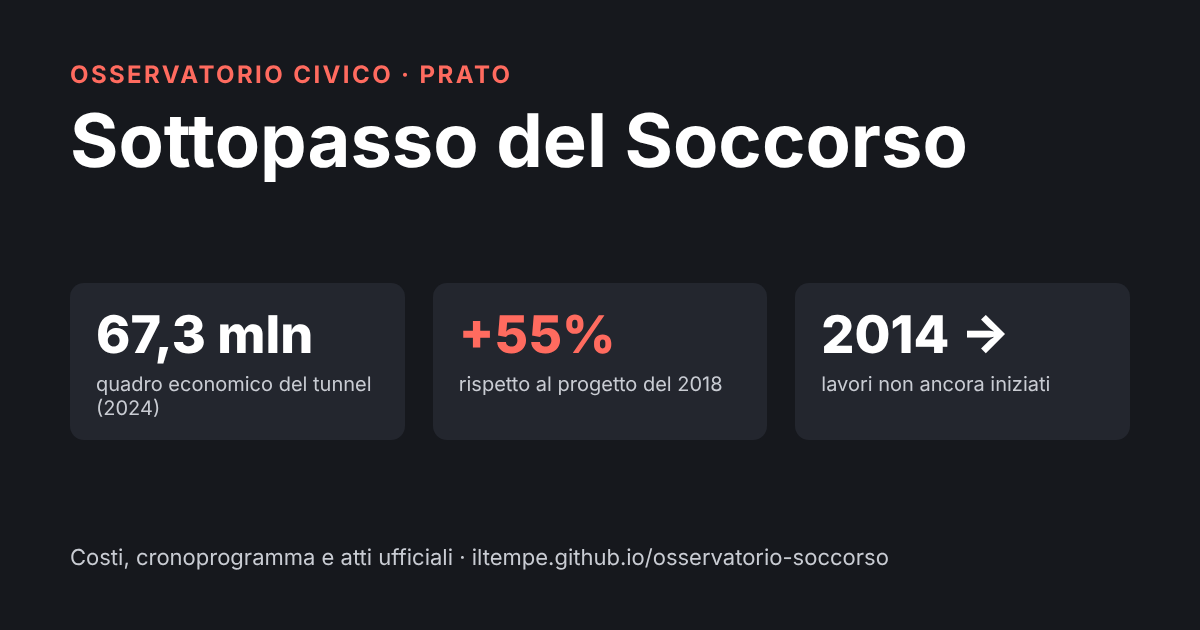
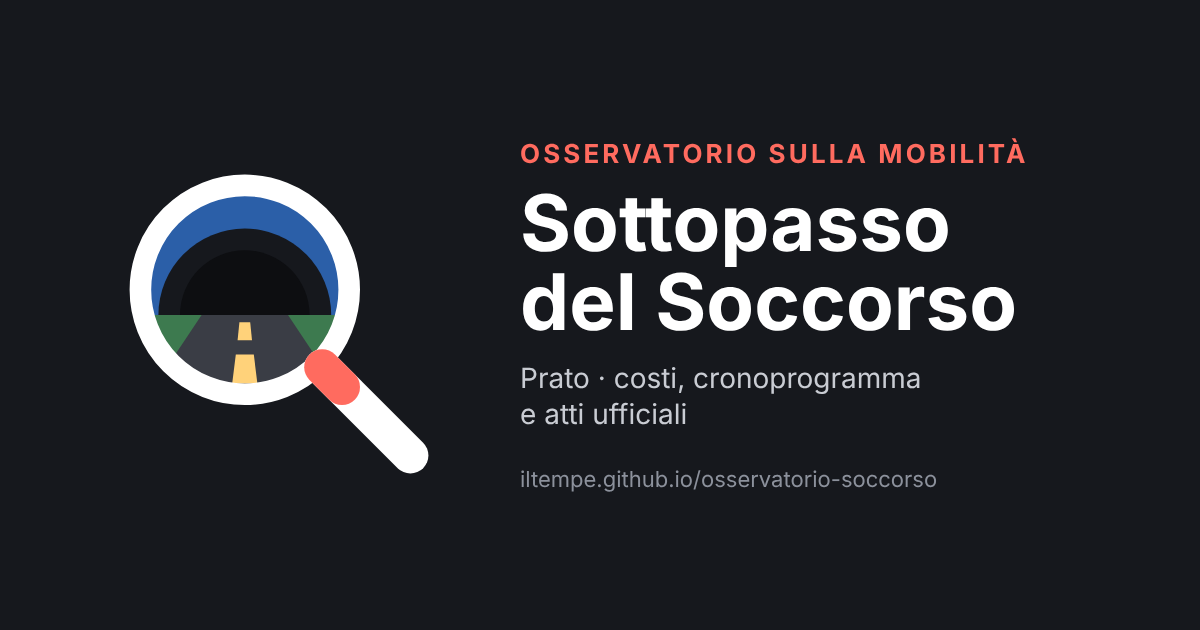
Nuova anteprima social con icona dell'osservatorio sulla mobilità
Claude-Session: https://claude.ai/code/session_0143r5fSB8zhKMoqbwVNnyAB

diff --git a/sorgente/social.html b/sorgente/social.html
@@ -1,18 +1,28 @@
 <!DOCTYPE html><html><head><meta charset="utf-8"><style>
-body{margin:0;width:1200px;height:630px;background:#16181d;color:#fff;font-family:system-ui,-apple-system,"Segoe UI",Roboto,Arial,sans-serif;display:flex;flex-direction:column;justify-content:space-between;padding:60px 70px;box-sizing:border-box}
-.k{color:#ff6b5f;font-weight:700;letter-spacing:.1em;text-transform:uppercase;font-size:24px}
-h1{font-size:74px;line-height:1.02;margin:14px 0 0}
-.row{display:flex;gap:28px}
-.n{background:#23262e;border-radius:14px;padding:20px 26px;flex:1}
-.v{font-size:52px;font-weight:800}.v.r{color:#ff6b5f}
-.l{font-size:20px;color:#c9ccd3;margin-top:6px}
-.f{font-size:22px;color:#c9ccd3}
+body{margin:0;width:1200px;height:630px;background:#16181d;color:#fff;font-family:system-ui,-apple-system,"Segoe UI",Roboto,Arial,sans-serif;display:flex;align-items:center;gap:70px;padding:0 90px;box-sizing:border-box}
+.ic{width:360px;height:360px;flex:none}
+.k{color:#ff6b5f;font-weight:700;letter-spacing:.12em;text-transform:uppercase;font-size:26px}
+h1{font-size:78px;line-height:1.02;margin:14px 0 18px}
+.s{font-size:28px;color:#c9ccd3;line-height:1.3}
+.u{margin-top:34px;font-size:22px;color:#8c919c}
 </style></head><body>
-<div><div class="k">Osservatorio civico · Prato</div><h1>Sottopasso del Soccorso</h1></div>
-<div class="row">
-<div class="n"><div class="v">67,3 mln</div><div class="l">quadro economico del tunnel (2024)</div></div>
-<div class="n"><div class="v r">+55%</div><div class="l">rispetto al progetto del 2018</div></div>
-<div class="n"><div class="v">2014 →</div><div class="l">lavori non ancora iniziati</div></div>
+<div class="ic"><svg xmlns="http://www.w3.org/2000/svg" viewBox="0 0 200 200">
+  <defs><clipPath id="lens"><circle cx="86" cy="86" r="58"/></clipPath></defs>
+  <circle cx="86" cy="86" r="58" fill="#23262e"/>
+  <g clip-path="url(#lens)">
+    <rect x="20" y="20" width="140" height="140" fill="#2b5fa8"/>
+    <rect x="20" y="100" width="140" height="60" fill="#3d7a4f"/>
+    <path d="M38 100 A48 48 0 0 1 134 100 Z" fill="#16181d"/>
+    <path d="M50 100 A36 36 0 0 1 122 100 Z" fill="#0d0e11"/>
+    <polygon points="62,100 110,100 150,160 22,160" fill="#3a3d45"/>
+    <polygon points="83,104 89,104 90,114 82,114" fill="#ffd27a"/>
+    <polygon points="81,122 91,122 93,138 79,138" fill="#ffd27a"/>
+    <polygon points="78,146 94,146 96,160 76,160" fill="#ffd27a"/>
+  </g>
+  <circle cx="86" cy="86" r="58" fill="none" stroke="#ffffff" stroke-width="12"/>
+  <line x1="129" y1="129" x2="178" y2="178" stroke="#ffffff" stroke-width="20" stroke-linecap="round"/>
+  <line x1="129" y1="129" x2="140" y2="140" stroke="#ff6b5f" stroke-width="20" stroke-linecap="round"/>
+</svg>
 </div>
-<div class="f">Costi, cronoprogramma e atti ufficiali · iltempe.github.io/osservatorio-soccorso</div>
+<div><div class="k">Osservatorio sulla mobilità</div><h1>Sottopasso<br>del Soccorso</h1><div class="s">Prato · costi, cronoprogramma<br>e atti ufficiali</div><div class="u">iltempe.github.io/osservatorio-soccorso</div></div>
 </body></html>

diff --git a/index.html b/index.html
@@ -5,6 +5,7 @@
 <meta name="viewport" content="width=device-width, initial-scale=1">
 <title>Osservatorio Sottopasso del Soccorso</title>
 <meta name="description" content="Costi, cronoprogramma, atti e finanziamenti del tunnel della Declassata al Soccorso (Prato), con le fonti ufficiali.">
[1 lines of base64/hex data omitted]
 <link rel="canonical" href="https://iltempe.github.io/osservatorio-soccorso/">
 <meta property="og:type" content="website">
 <meta property="og:title" content="Osservatorio Sottopasso del Soccorso">

diff --git a/sorgente/template.html b/sorgente/template.html
@@ -5,6 +5,7 @@
 <meta name="viewport" content="width=device-width, initial-scale=1">
 <title>Osservatorio Sottopasso del Soccorso</title>
 <meta name="description" content="Costi, cronoprogramma, atti e finanziamenti del tunnel della Declassata al Soccorso (Prato), con le fonti ufficiali.">
[1 lines of base64/hex data omitted]
 <link rel="canonical" href="https://iltempe.github.io/osservatorio-soccorso/">
 <meta property="og:type" content="website">
 <meta property="og:title" content="Osservatorio Sottopasso del Soccorso">

diff --git a/README.md b/README.md
@@ -8,7 +8,7 @@ Aggiornato al **2026-11-22**. A cura di Matteo Tempestini – [github.com/iltemp
 
 Online: https://iltempe.github.io/osservatorio-soccorso/
 
-Il sito è `index.html`, una pagina unica senza dipendenze esterne. `social.png` è l'immagine di anteprima per i social (sorgente in `sorgente/social.html`).
+Il sito è `index.html`, una pagina unica senza dipendenze esterne. `social.png` è l'immagine di anteprima per i social (sorgente in `sorgente/social.html`, icona in `sorgente/icona.svg`).
 
 ## Dati
 
